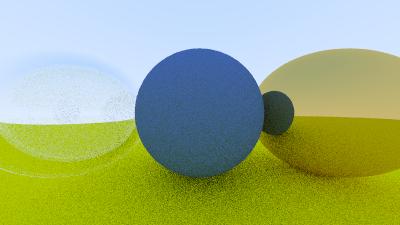
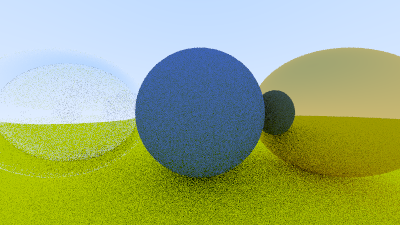
camera updated with updation of website

diff --git a/utils/camera.py b/utils/camera.py
@@ -1,26 +1,92 @@
 from .point import Point
 from .vector import Vector
 from .ray import Ray
+from .hittable import Hittable, HitRecord
+from .color import Color
+from .interval import Interval, INFINITY
+from .image import WImage
+from .utilities import random_double
 
 
 class Camera:
-    aspect_ratio: float = 16 / 9
-    viewport_height: float = 2.0
-    viewport_width: float = aspect_ratio * viewport_height
-    focal_length: float = 1.0
+    aspect_ratio: float = 1.0
+    image_width: int = 100
+    image_height: int
+    center: Point
+    pixel00_loc: Point
+    pixel_delta_u: Vector
+    pixel_delta_v: Vector
+    samples_per_pixel: int = 10
+    max_depth: int = 10
 
-    __origin: Point = Point(0, 0, 0)
-    __horizontal: Vector = Vector(viewport_width, 0, 0)
-    __vertical: Vector = Vector(0, viewport_height, 0)
-    __lower_left_corner: Vector = (
-        __origin - __horizontal / 2 - __vertical / 2 - Vector(0, 0, focal_length)
-    )
+    def initialize(self) -> None:
+        self.image_height: int = int(self.image_width / self.aspect_ratio)
+        self.image_height = 1 if self.image_height < 1 else self.image_height
+        self.center = Point(0, 0, 0)
 
-    def get_ray(self, u: float, v: float):
-        return Ray(
-            self.__origin,
-            self.__lower_left_corner
-            + u * self.__horizontal
-            + v * self.__vertical
-            - self.__origin,
+        # Determine viewport dimensions.
+        focal_length: float = 1.0
+        viewport_height: float = 2.0
+        viewport_width: float = viewport_height * (self.image_width / self.image_height)
+
+        # Calculate the vectors across the horizontal and down the vertical viewport edges.
+        viewport_u: Vector = Vector(viewport_width, 0, 0)
+        viewport_v: Vector = Vector(0, -viewport_height, 0)
+
+        # Calculate the horizontal and vertical delta vectors from pixel to pixel.
+        self.pixel_delta_u = viewport_u / self.image_width
+        self.pixel_delta_v = viewport_v / self.image_height
+
+        # Calculate the location of the upper left pixel.
+        viewport_upper_left: Point = (
+            self.center - Vector(0, 0, focal_length) - viewport_u / 2 - viewport_v / 2
         )
+        self.pixel00_loc = viewport_upper_left + 0.5 * (
+            self.pixel_delta_u + self.pixel_delta_v
+        )
+
+    def render(self, world: Hittable) -> None:
+        self.initialize()
+        image = WImage(self.image_width, self.image_height, "image_test.ppm")
+        j: int = 0
+        while j < self.image_height:
+            print(f"Scanlines Remaning: {self.image_height - j}")
+            i: int = 0
+            while i < self.image_width:
+                pixel_color = Color(0, 0, 0)
+                for _ in range(self.samples_per_pixel):
+                    r: Ray = self.get_ray(i, j)
+                    pixel_color += self.ray_color(r, self.max_depth, world)
+                image.add_data_array(pixel_color, self.samples_per_pixel)
+                i += 1
+            j += 1
+        image.write_image()
+
+    def ray_color(self, r: Ray, depth: int, world: Hittable) -> Color:
+        rec: HitRecord = HitRecord()
+        if depth <= 0:
+            return Color(0, 0, 0)
+        if world.hit(r, Interval(0.001, INFINITY), rec):
+            scattered: Ray = Ray()
+            attenuation: Color = Color()
+            if rec.mat_ptr.scatter(r, rec, attenuation, scattered):
+                return attenuation * self.ray_color(scattered, depth - 1, world)
+            return Color(0, 0, 0)
+        unit_direction: Vector = r.direction.unit
+        a: float = 0.5 * (unit_direction.y + 1.0)
+        return (1.0 - a) * Color(1.0, 1.0, 1.0) + a * Color(0.5, 0.7, 1.0)
+
+    def get_ray(self, i: int, j: int) -> Ray:
+        pixel_center: Point = (
+            self.pixel00_loc + (i * self.pixel_delta_u) + (j * self.pixel_delta_v)
+        )
+        pixel_sample = pixel_center + self.pixel_sample_square()
+        ray_origin = self.center
+        ray_direction = pixel_sample - ray_origin
+
+        return Ray(ray_origin, ray_direction)
+
+    def pixel_sample_square(self) -> Vector:
+        px = -0.5 + random_double()
+        py = -0.5 + random_double()
+        return (px * self.pixel_delta_u) + (py * self.pixel_delta_v)

diff --git a/main.py b/main.py
@@ -1,61 +1,18 @@
 from utils.color import Color
-from utils.ray import Ray
-from utils.vector import Vector, random_in_hemisphere
 from utils.point import Point
-from utils.image import WImage
-from utils.hittable import HitRecord
 from utils.hittableList import HittableList
 from utils.sphere import Sphere
 from utils.camera import Camera
 from utils.material import Lambertian, Metal, Dielectric
-from typing import Type
 from utils.utilities import *
 
 
-def hit_sphere(center: Point, radius: float, r: Ray) -> float:
-    oc: Vector = r.origin - center
-    a: float = r.direction.length_sq
-    half_b: float = oc.dot(r.direction)
-    c: float = oc.length_sq - radius**2
-    discriminant: float = half_b**2 - a * c
-    if discriminant < 0:
-        return -1
-    else:
-        return (-half_b - discriminant**0.5) / a
-
-
-def ray_color(r: Ray, world: HittableList, depth: int) -> Color:
-    rec: HitRecord = HitRecord()
-
-    if depth <= 0:
-        return Color(0, 0, 0)
-
-    if world.hit(r, 0.001, INFINITY, rec):
-        scattered: Ray = Ray()
-        attenuation: Color = Color()
-        if rec.mat_ptr.scatter(r, rec, attenuation, scattered):
-            return attenuation * ray_color(scattered, world, depth - 1)
-        return Color(0, 0, 0)
-
-    unit_direction: Vector = r.direction.unit
-    t: float = 0.5 * (unit_direction.y + 1)
-    return (1 - t) * Color(1, 1, 1) + t * Color(0.5, 0.7, 1)
-
-
 def main() -> None:
-    ## Image
-    aspect_ratio: float = 16 / 9
-    image_width: int = 400
-    image_height: int = int(image_width / aspect_ratio)
-    samples_per_pixel: int = 20
-    max_depth: int = 50
-
     ## World
     world: HittableList = HittableList()
 
     material_ground: Lambertian = Lambertian(Color(0.8, 0.8, 0))
     material_center: Lambertian = Lambertian(Color(0.1, 0.2, 0.5))
-    # material_center = Metal(Color(1, 0, 0))
     material_left: Metal = Dielectric(1.5)
     material_right: Metal = Metal(Color(0.8, 0.6, 0.2), 0)
 
@@ -67,25 +24,9 @@ def main() -> None:
 
     ## Camera
     cam: Camera = Camera()
-
-    ## Render
-    image = WImage(image_width, image_height, "image_test.ppm")
-    j: int = image_height - 1
-    while j >= 0:
-        print(f"Scanlines Remaning: {j}")
-        i: int = 0
-        while i < image_width:
-            pixel_color: Color = Color(0, 0, 0)
-            for _ in range(samples_per_pixel):
-                u: float = (i + random_double()) / (image_width - 1)
-                v: float = (j + random_double()) / (image_height - 1)
-                r: Ray = cam.get_ray(u, v)
-                pixel_color += ray_color(r, world, max_depth)
-            image.add_data_array(pixel_color, samples_per_pixel)
-            i += 1
-        j -= 1
-
-    image.write_image()
+    cam.aspect_ratio = 16.0 / 9.0
+    cam.image_width = 400
+    cam.render(world)
 
 
 if __name__ == "__main__":

diff --git a/utils/sphere.py b/utils/sphere.py
@@ -3,6 +3,7 @@ from .vector import Vector
 from .ray import Ray
 from .hittable import HitRecord, Hittable
 from .material import Material
+from .interval import Interval
 
 
 class Sphere(Hittable):
@@ -36,7 +37,7 @@ class Sphere(Hittable):
     def mat_ptr(self, m: Material) -> None:
         self._mat_ptr = m
 
-    def hit(self, r: Ray, t_min: float, t_max: float, rec: HitRecord) -> bool:
+    def hit(self, r: Ray, ray_t: Interval, rec: HitRecord) -> bool:
         oc: Vector = r.origin - self.center
         a: float = r.direction.length_sq
         half_b: float = oc.dot(r.direction)
@@ -46,9 +47,9 @@ class Sphere(Hittable):
             return False
         sqrtd: float = discriminant**0.5
         root: float = (-half_b - sqrtd) / a
-        if root < t_min or t_max < root:
+        if not ray_t.surrounds(root):
             root: float = (-half_b + sqrtd) / a
-            if root < t_min or t_max < root:
+            if not ray_t.surrounds(root):
                 return False
 
         rec.t = root

diff --git a/utils/hittableList.py b/utils/hittableList.py
@@ -1,5 +1,6 @@
 from .hittable import HitRecord, Hittable, copyHitRecord
 from .ray import Ray
+from .interval import Interval
 
 
 class HittableList(Hittable):
@@ -16,12 +17,12 @@ class HittableList(Hittable):
     def add(self, object: Hittable) -> None:
         self.objects.append(object)
 
-    def hit(self, r: Ray, t_min: float, t_max: float, rec: HitRecord) -> bool:
+    def hit(self, r: Ray, ray_t: Interval, rec: HitRecord) -> bool:
         temp_rec: HitRecord = HitRecord()
         hit_anything: bool = False
-        closest_so_far: float = t_max
+        closest_so_far: float = ray_t.max
         for object in self.objects:
-            if object.hit(r, t_min, closest_so_far, temp_rec):
+            if object.hit(r, Interval(ray_t.min, closest_so_far), temp_rec):
                 hit_anything = True
                 closest_so_far = temp_rec.t
                 copyHitRecord(rec, temp_rec)

diff --git a/utils/interval.py b/utils/interval.py
@@ -1,0 +1,17 @@
+from .utilities import INFINITY
+
+
+class Interval:
+    def __init__(self, _min: float = None, _max: float = None) -> None:
+        if _min == None:
+            self.min = INFINITY
+        self.min = _min
+        if _max == None:
+            self.max = -INFINITY
+        self.max = _max
+
+    def contains(self, x: float) -> bool:
+        return self.min <= x and x <= self.max
+
+    def surrounds(self, x: float) -> bool:
+        return self.min < x and x < self.max

diff --git a/utils/vector.py b/utils/vector.py
@@ -163,6 +163,14 @@ def random_in_unit_sphere() -> Vector:
         return p
 
 
+def random_on_hemisphere(normal: Vector) -> Vector:
+    on_unit_sphere: Vector = random_unit_vector()
+    if dot_product(on_unit_sphere, normal) > 0.0:
+        return on_unit_sphere
+    else:
+        return -on_unit_sphere
+
+
 def random_unit_vector() -> Vector:
     return random_in_unit_sphere().unit
 
